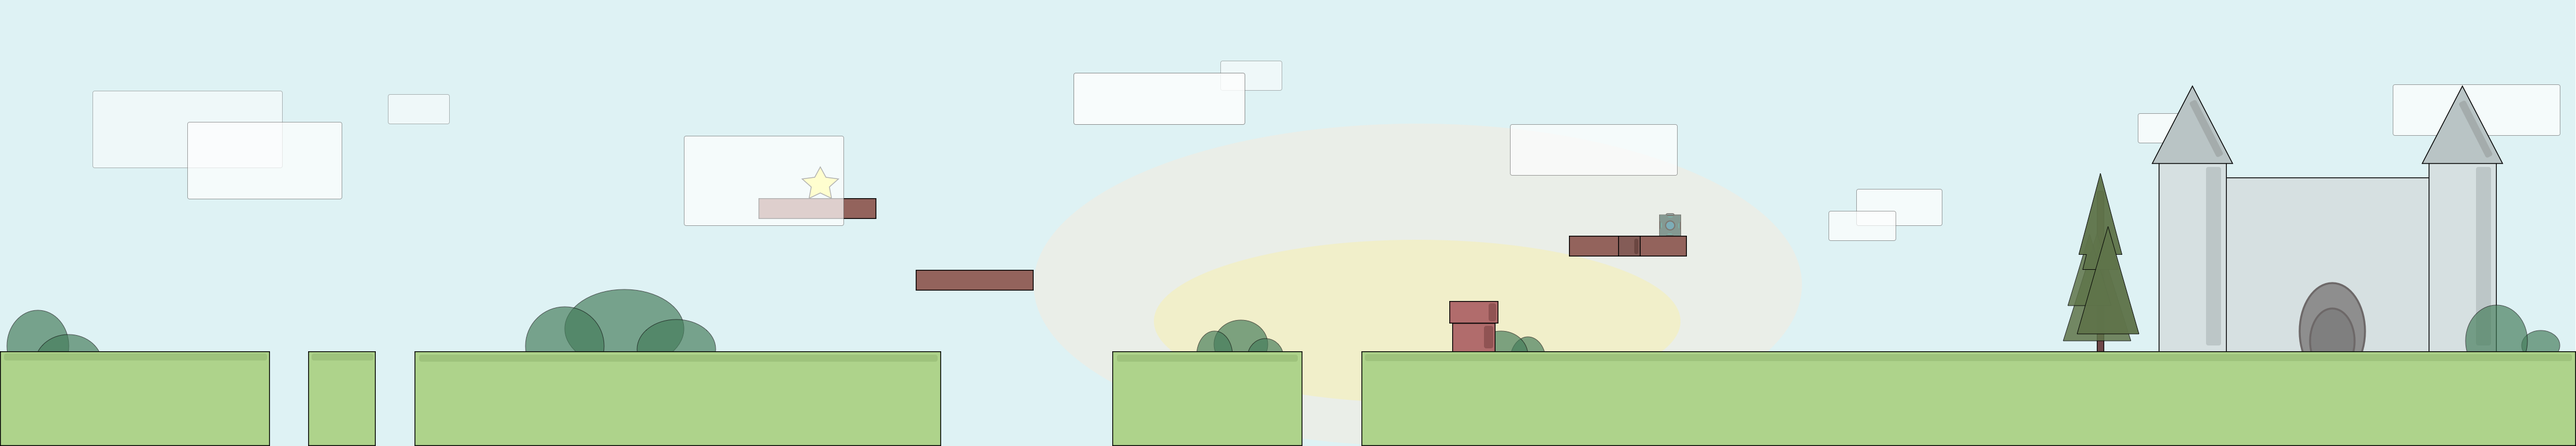
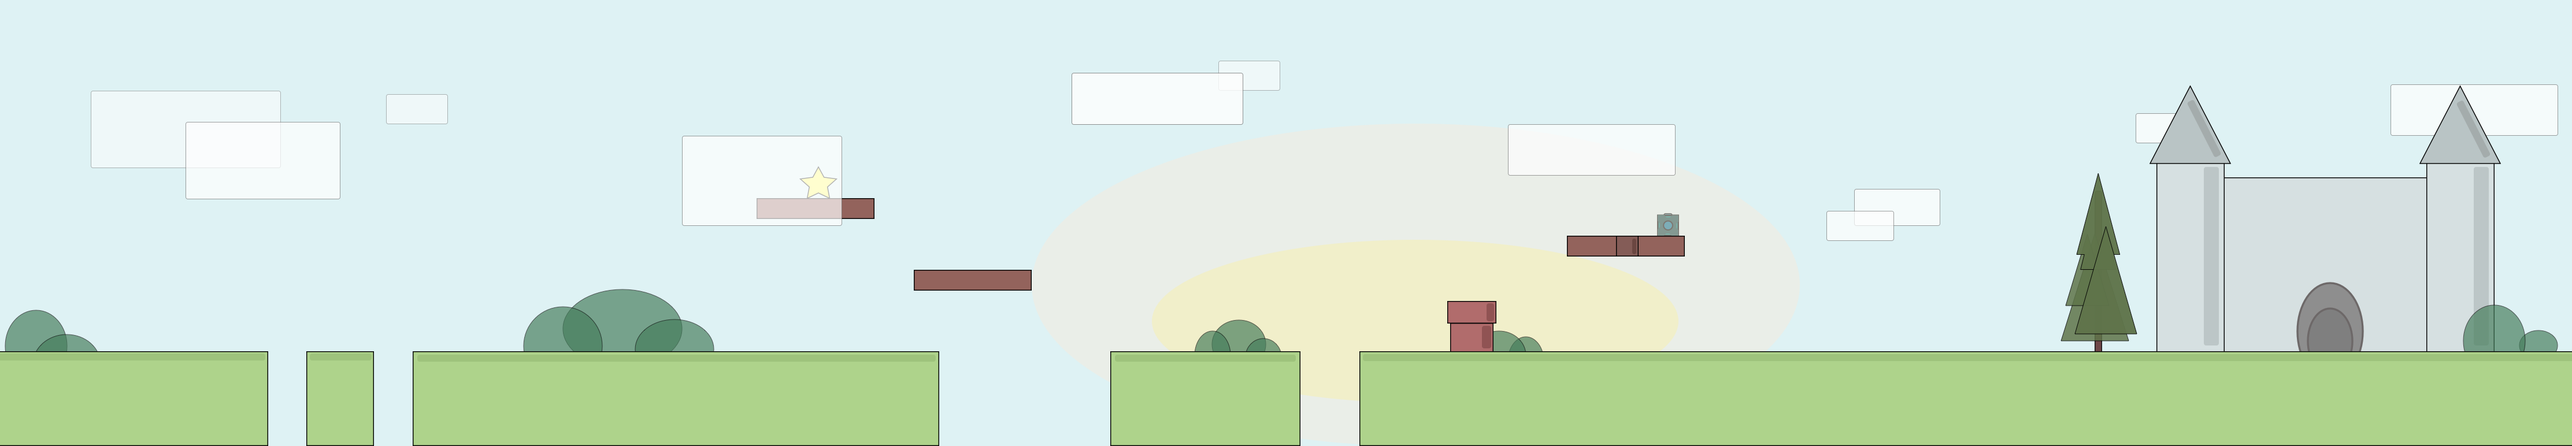
Makes background loop, adds Jerry

Changed region(s): [[0.9683, 0.0, 1.0, 1.0], [0.8121, 0.5285, 0.8434, 0.5596]]

diff --git a/sketch.js b/sketch.js
@@ -11,6 +11,7 @@ var sketchProc = function(p) {
   var brickImg;
   var marioStanding;
   var marioMoving;
+  var jerryStanding;
 
   var Mario = function(x, y, m) {
     this.x = x;
@@ -80,22 +81,31 @@ var sketchProc = function(p) {
     }
   }
 
-  var Background = function(background_image) {
-    this.x = 0;
-    this.y = 0;
+  var Background = function(background_image, xVal, yVal) {
+    this.x = xVal;
+    this.y = yVal;
     this.acc = ACCELERATION;
     this.image = background_image;
 
     this.draw = function() {
       this.x -= this.acc;
       p.image(this.image,this.x,this.y);
+      if (this.x === (xVal - 4448)) {
+        this.x += 4448
+      }
     }
   }
 
 
-  var Enemy = function() {
+  var Jerry = function(x, y) {
+    this.x = x;
+    this.y = y;
 
-  };
+    this.draw = function() {
+      this.x -= (ACCELERATION * 2);
+      p.image(jerryStanding,this.x,this.y);
+    }
+  }
 
   processInput = function() {
     if(keys[37]) mario.moveLeft();
@@ -104,8 +114,15 @@ var sketchProc = function(p) {
   };
 
   var mario = new Mario(30, 750, 3);
+  var j1 = p.random(4448)
+  var j2 = p.random(4448)
+  var j3 = p.random(4448)
+  var jerry1 = new Jerry(j1, 550)
+  var jerry2 = new Jerry(j2, 550)
+  var jerry3 = new Jerry(j3, 550)
   var start_button = new StartButton();
   var background;
+  var background2;
 
   var brickXs = [];
 
@@ -121,13 +138,15 @@ var sketchProc = function(p) {
     fulfillMyPurpose = p.loadSound('assets/fulfill_my_purpose.m4a');
     hesTryin = p.loadSound("assets/Oooo He's Tryin.m4a");
     background_image = p.loadImage("assets/background.png");
+    jerryStanding = p.loadImage("assets/jerry.png");
   };
 
   p.setup = function() {
     p.frameRate(30);
     var canvas = p.createCanvas(1000, 772.72);
     brickXs.push(background_image.width*2);
-    background = new Background(background_image);
+    background = new Background(background_image, 0, 0);
+    background2 = new Background(background_image, 4448, 0);
     p.createP("Press spacebar to jump.");
     p.createP("Press left & right arrow keys to move");
   };
@@ -154,18 +173,18 @@ var sketchProc = function(p) {
         background_music.stop();
       }
     } else {
-
       p.background(227, 254, 255);
       p.fill(130, 79, 43);
       p.rect(0, p.height*0.90, p.width, p.height*0.10);
-
       processInput();
-
       background.draw();
+      background2.draw();
       mario.checkOnGround();
       mario.draw();
+      jerry1.draw();
+      jerry2.draw();
+      jerry3.draw();
     }
-
   };
 
   p.keyPressed = function(){
